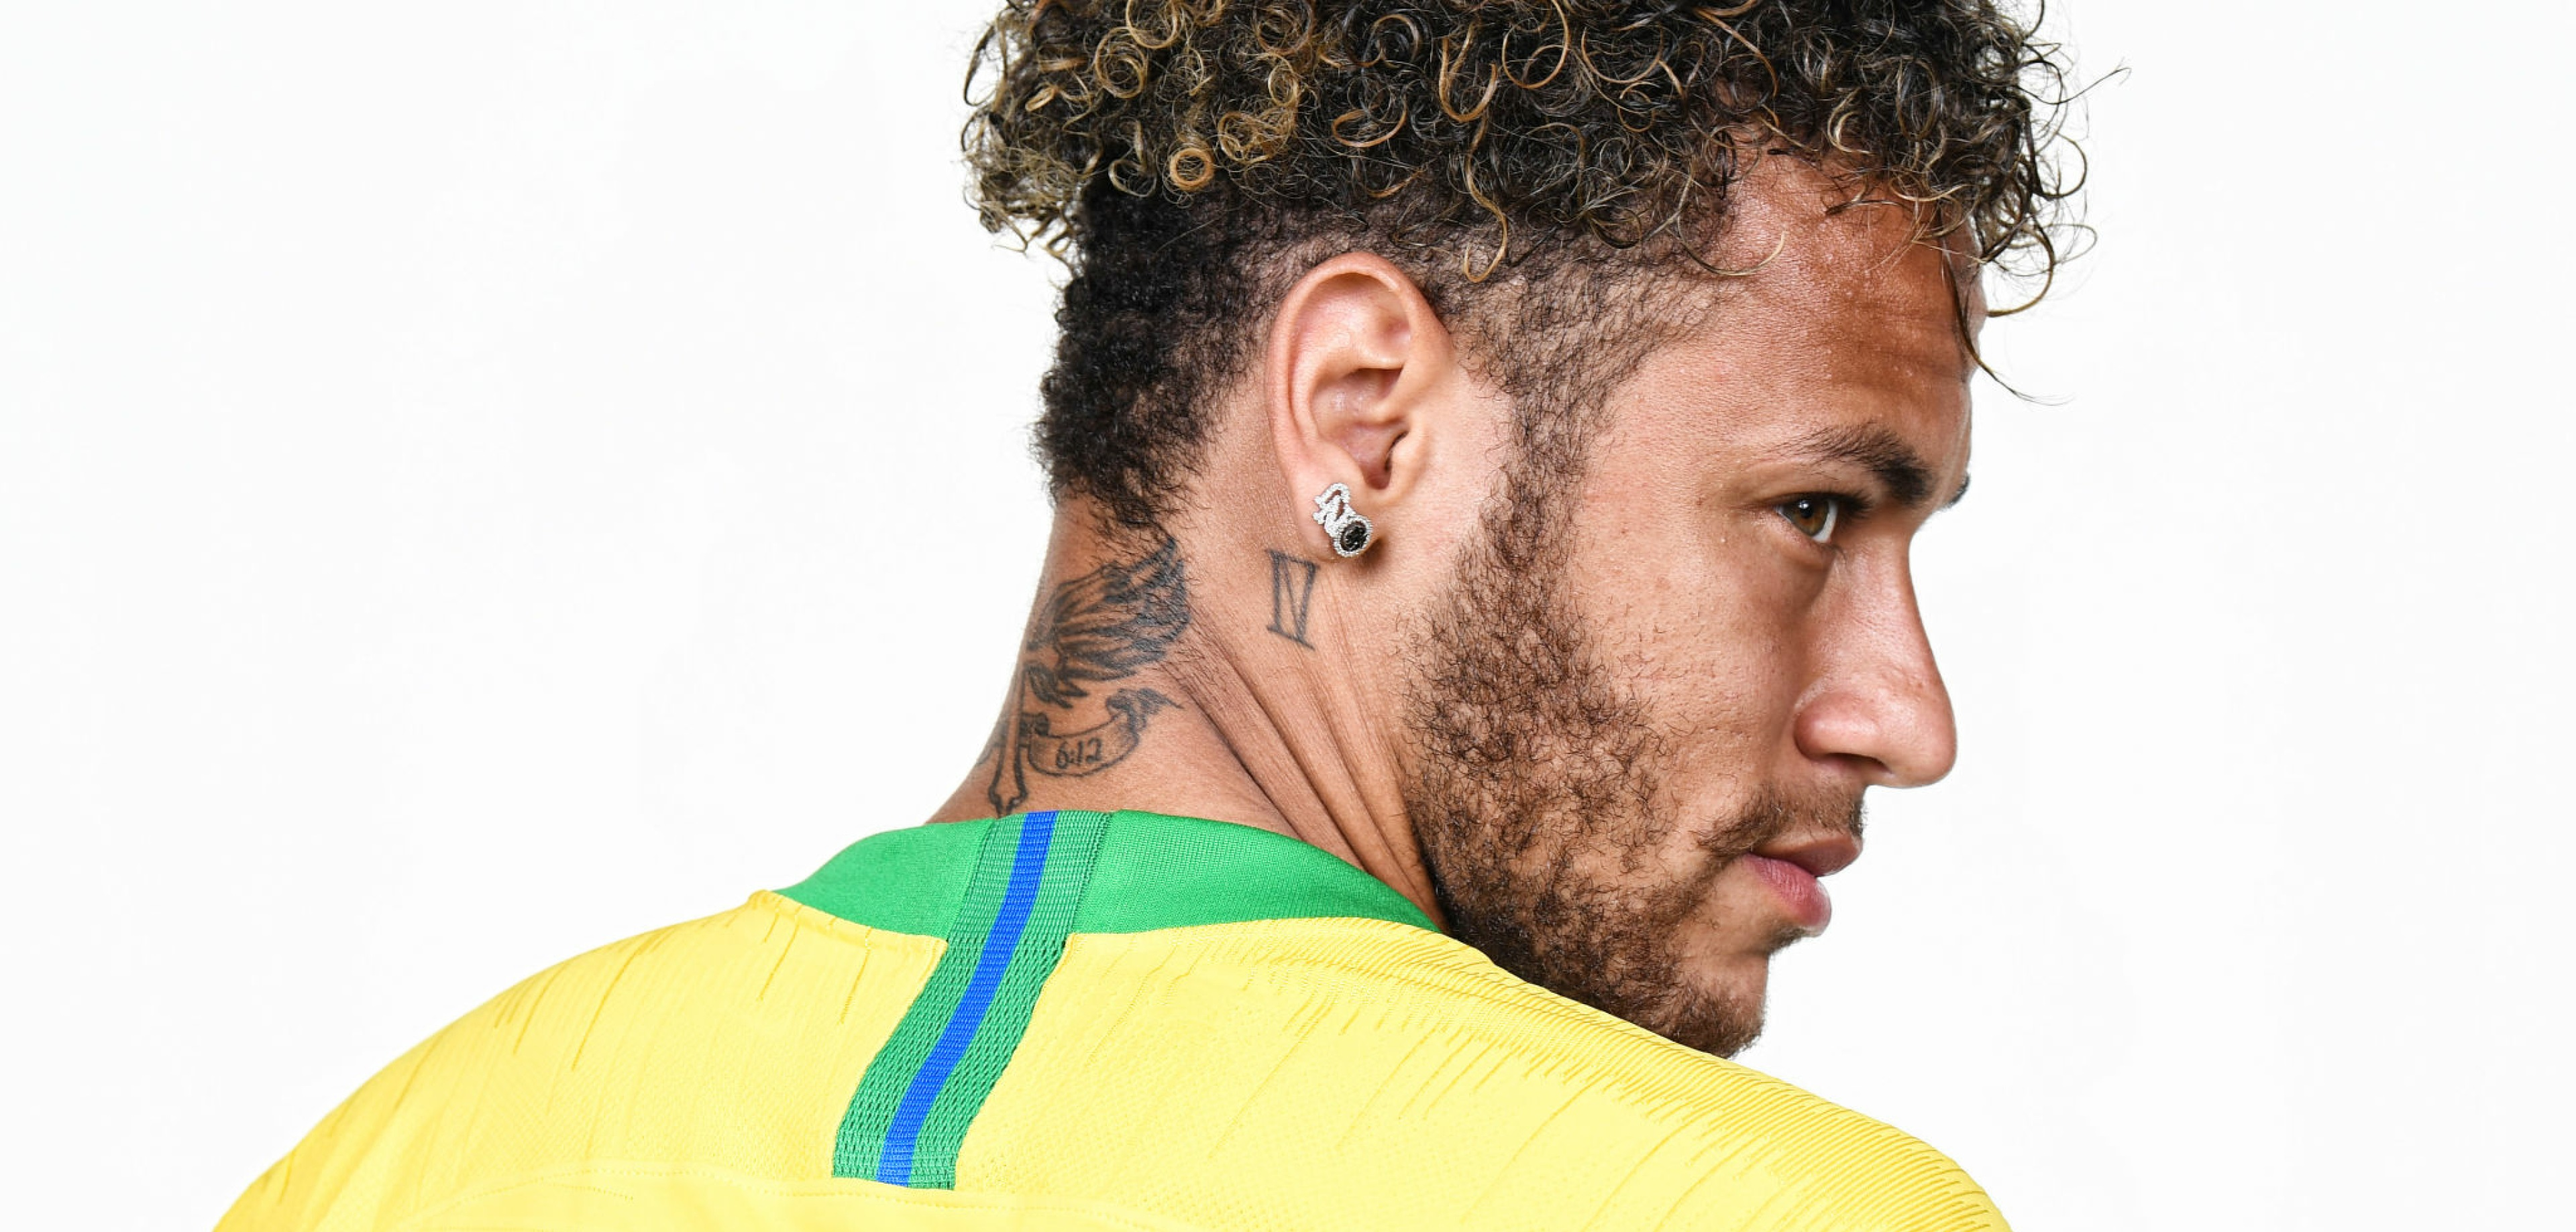
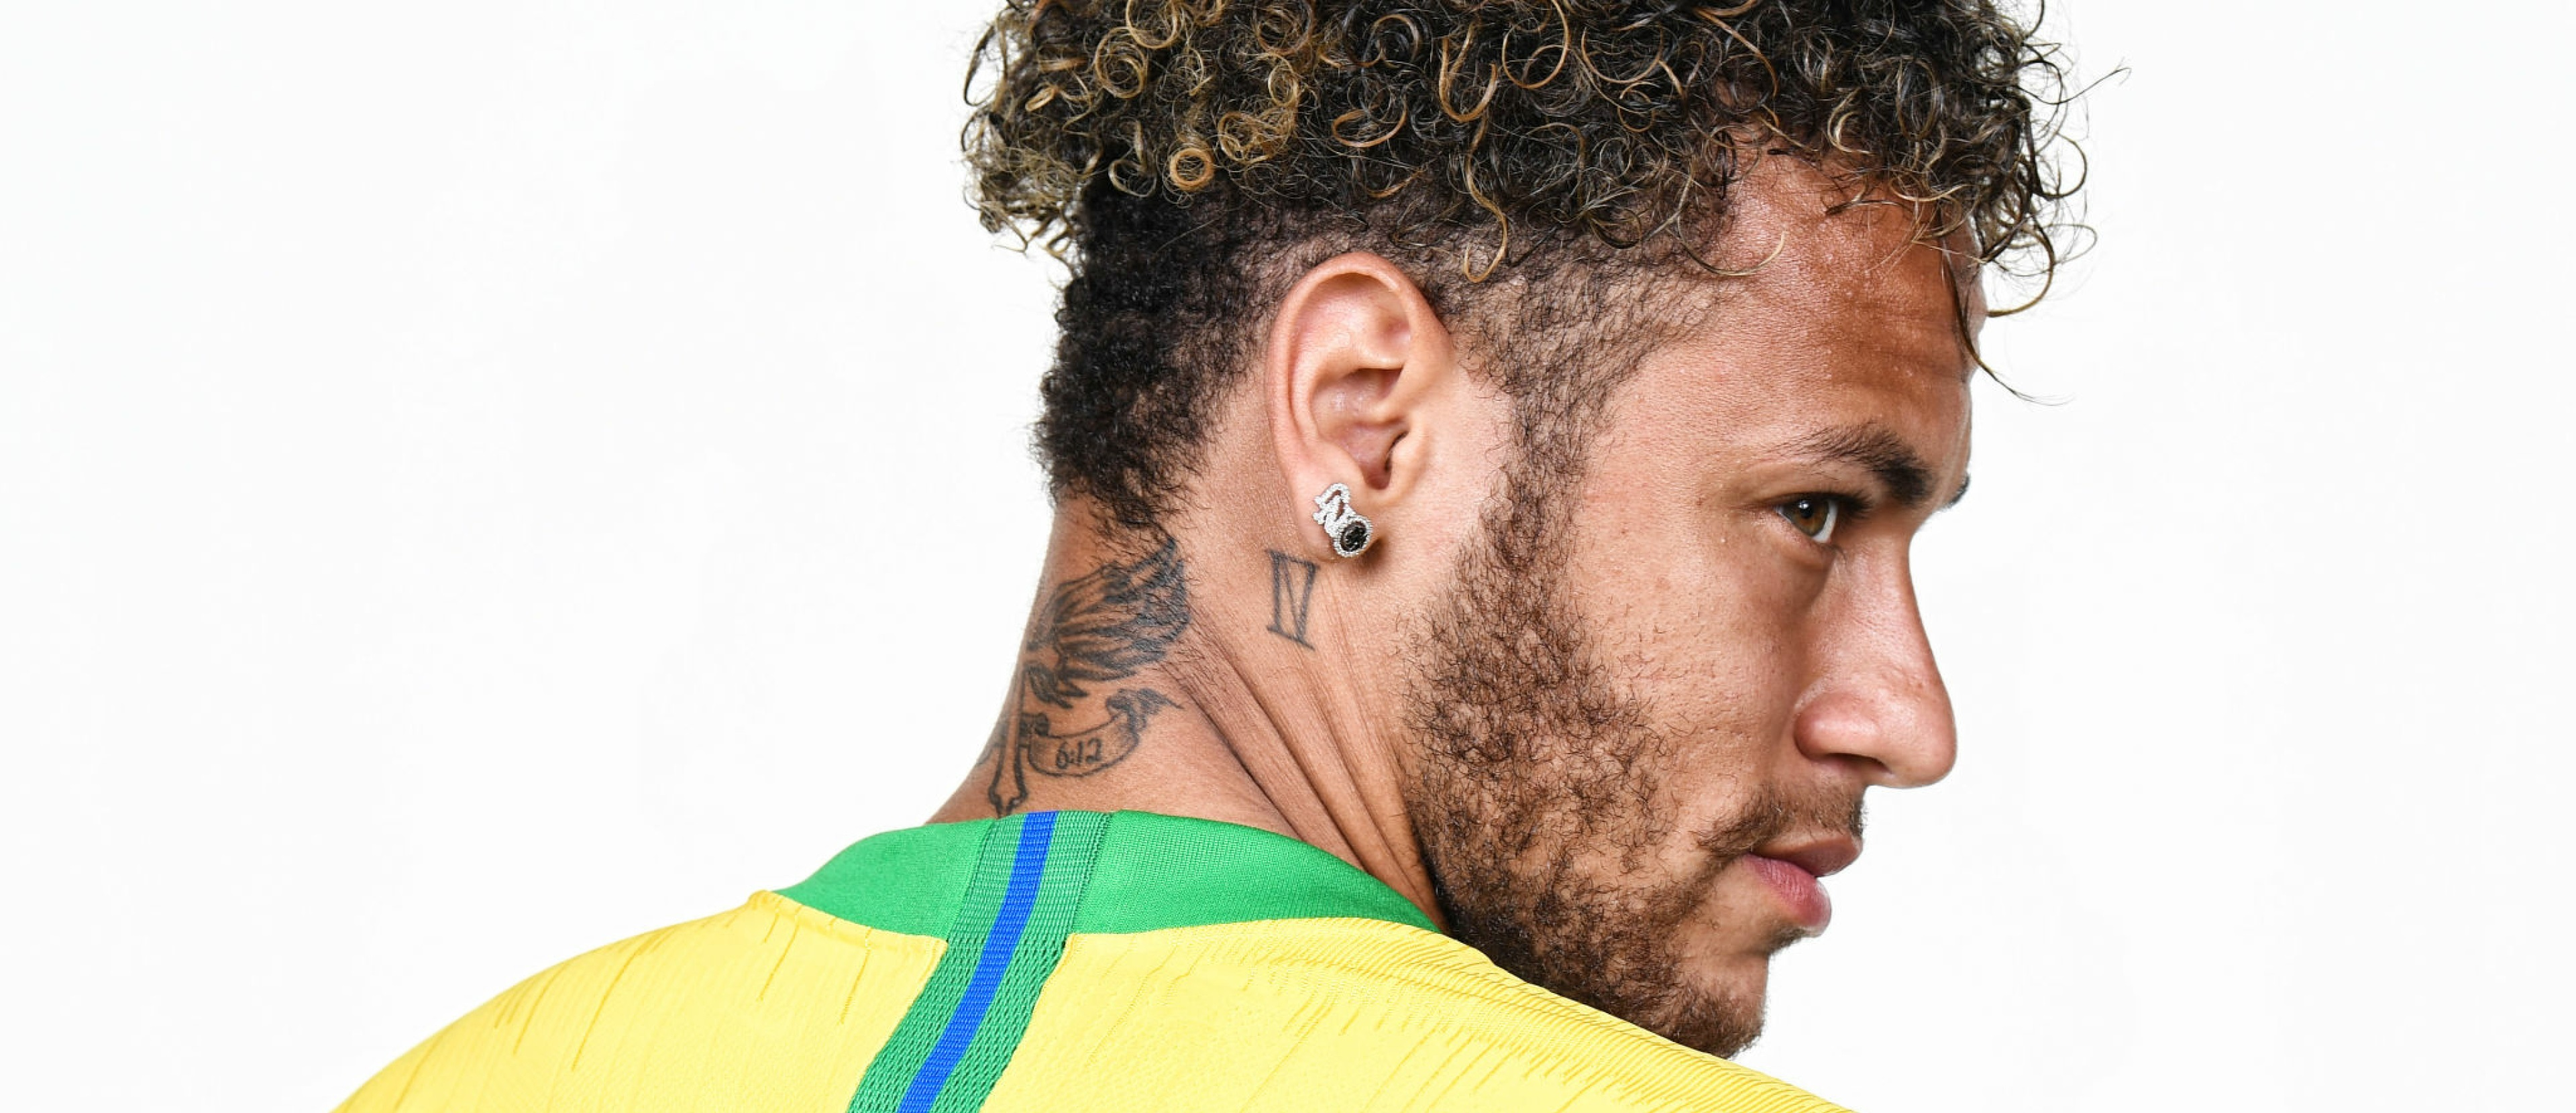
se cambian posiciones de imagenes en neymar y el texto

Changed region(s): [[0.0625, 0.0, 0.8125, 1.0], [0.4375, 0.9831, 0.4688, 1.0]]

diff --git a/styles1.css b/styles1.css
@@ -9,7 +9,7 @@
 
 
 .bodi {
-  font-family: "SF Pro Text";
+  font-family:serif;
   font-size: 20px;
   height: 10vh;
   display: flex;
@@ -106,25 +106,26 @@ ul {
 
 .centrado{
   position: absolute;
-  top: 50%;
-  left: 50%;
+  top: 81%;
+  left: 28%;
   transform: translate(-50%, -50%);
   color: #ffffff;
   font-family:fantasy;
-  font-size: 80px;
-  background-image: url(imagenes/thebest2.jpg);
+  font-size: 90px;
+  background-image: url(imagenes/gradientinicial.jpg);
+  filter: brightness(8000%);
   background-repeat: no-repeat;
   background-position: center;
   color: transparent;
   background-clip: text;
-  
+  -webkit-text-stroke: px rgb(255, 0, 0);
 }
 
 .img{
   width: 100%;
   object-fit: cover;
   aspect-ratio: 21/9;
-  filter: grayscale(100%);
+  filter: grayscale(0%);
 }
 
 *,

diff --git a/styles3.css b/styles3.css
@@ -106,18 +106,18 @@ ul {
 
 .centrado{
   position: absolute;
-  top: 50%;
-  left: 50%;
+  top: 40%;
+  left: 75%;
   transform: translate(-50%, -50%);
   color: #ffffff;
   font-family:fantasy;
-  font-size: 80px;
-  background-image: url(imagenes/thebest2.jpg);
-  background-repeat: no-repeat;
-  background-position: center;
+  font-size: 130px;
+  background-image: url(imagenes/gradientmessi.jpg);
+  filter: brightness(100%);
+  background-position: center  ;
   color: transparent;
   background-clip: text;
-  
+  -webkit-text-stroke: 0.8px #82bed4;
 }
 
 .img{

diff --git a/styles2.css b/styles2.css
@@ -106,14 +106,14 @@ ul {
 
 .centrado{
   position:absolute;
-  top: 75%;
-  left: 50%;
+  top: 34%;
+  left: 20%;
   transform: translate(-50%, -50%);
   color: #ffffff;
   font-family:fantasy;
   font-size: 112px;
-  background-image: url(imagenes/gradientney1.jpeg);
-  background-repeat: no-repeat;
+  background-image: url(imagenes/gradiente2.jpg);   
+  filter: brightness(82%);
   background-position: center;
   color: transparent;
   background-clip: text;

diff --git a/Messi.html b/Messi.html
@@ -39,8 +39,8 @@
 
     <!--imagen central-->
     <div class="contenedor">
-      <img class="img" src="imagenes/thebest1.webp" align="center" alt="centrado" width="20%" height="20%">
-      <div class="centrado">SALON DE LA FAMA</div>
+      <img class="img" src="imagenes/messipg1.jpg" align="center" alt="centrado" width="20%" height="20%">
+      <div class="centrado">MESSI</div>
     </div>
     <BR></BR>
 

diff --git a/index.html b/index.html
@@ -39,7 +39,7 @@
 
     <!--imagen central-->
     <div class="contenedor">
-      <img class="img" src="imagenes/thebest1.webp" align="center" alt="centrado" width="20%" height="20%">
+      <img class="img" src="imagenes/thebest3.jpeg" align="center" alt="centrado" width="20%" height="20%">
       <div class="centrado">SALON DE LA FAMA</div>
     </div>
     <BR></BR>

diff --git a/Neymar.html b/Neymar.html
@@ -39,7 +39,7 @@
 
     <!--imagen central-->
     <div class="contenedor">
-      <img class="img" src="imagenes/neymarpg1_.jpg" align="center" alt="centrado" width="20%" height="20%">
+      <img class="img" src="imagenes/neymarpg1___.jpg" align="center" alt="centrado" width="20%" height="20%">
       <div class="centrado">NEYMAR JR</div>
     </div>
     <BR></BR>
